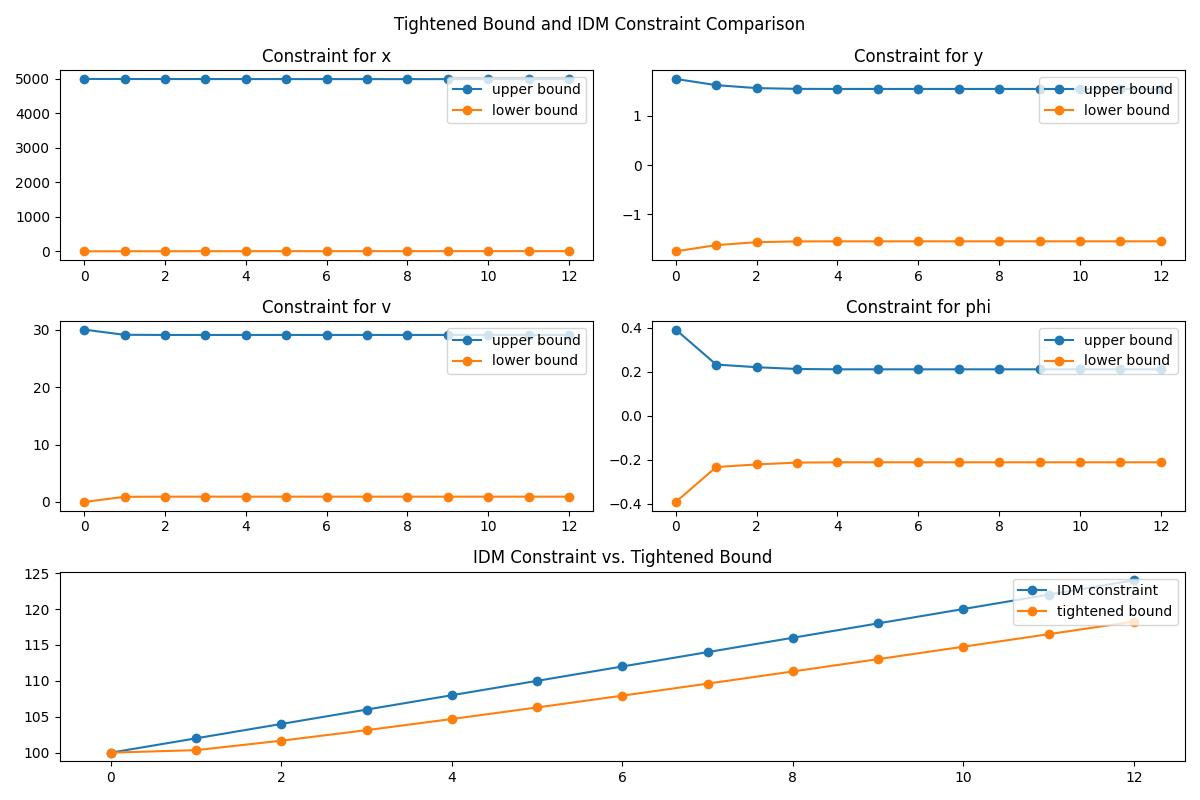
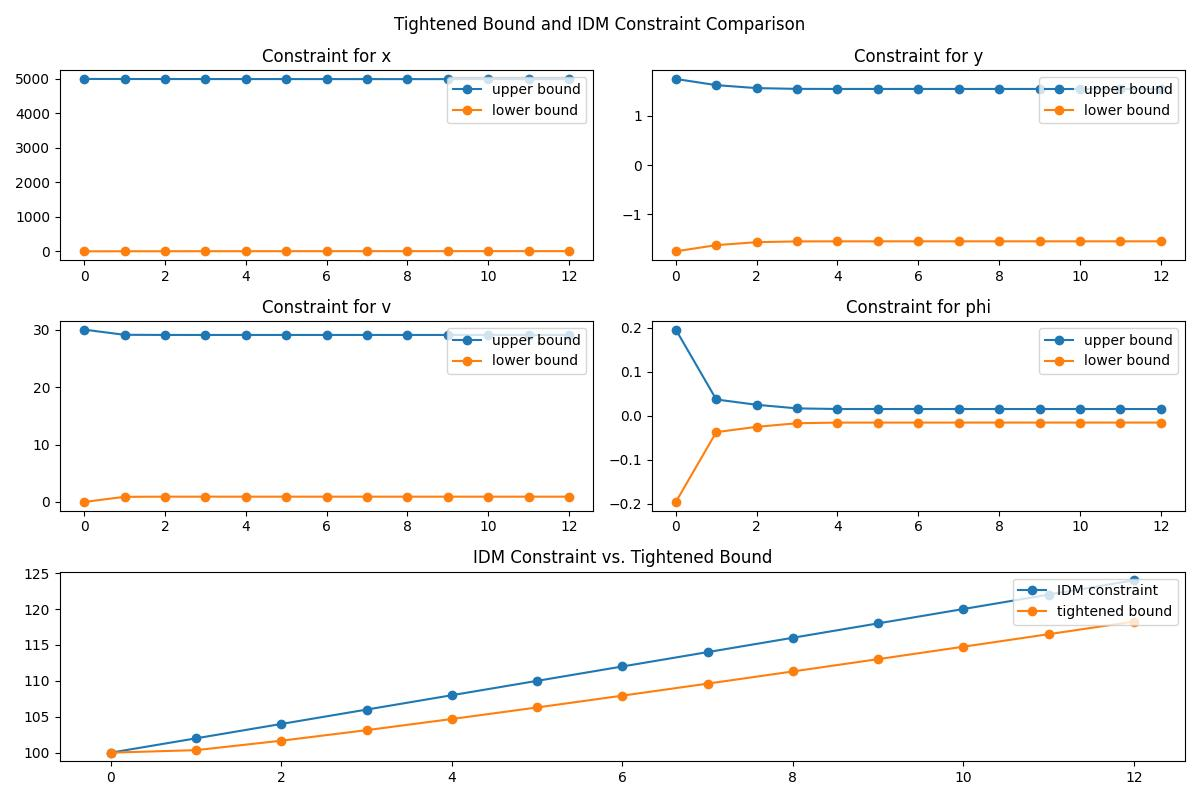
add to do list

Changed region(s): [[0.555, 0.4062, 0.9867, 0.625]]

diff --git a/Test_func/test_mpc_bound.py b/Test_func/test_mpc_bound.py
@@ -51,10 +51,10 @@ Possibilty=0.95  # the possibility of the tightened bound
 # initial upper bound of the constraints
 # Here is the upper bound of the constraints
 H_up=[np.array([[1],[0],[0],[0]]),np.array([[0],[1],[0],[0]]), np.array([[0],[0],[1],[0]]), np.array([[0],[0],[0],[1]])]
-upb=np.array([[5000],[1.75],[30],[3.14/8]])  #no limit to the x, y should be in [-1.75, 1.75], v should be in [0,30], psi should be in [-3.14/8,3.14/8]
+upb=np.array([[5000],[1.75],[30],[3.14/16]])  #no limit to the x, y should be in [-1.75, 1.75], v should be in [0,30], psi should be in [-3.14/8,3.14/8]
 # Here is the lower bound of the constraints
 H_low=[np.array([[-1],[0],[0],[0]]),np.array([[0],[-1],[0],[0]]), np.array([[0],[0],[-1],[0]]), np.array([[0],[0],[0],[-1]])]
-lwb=np.array([[0],[1.75],[0],[3.14/8]])  #no limit to the x, y should be in [-1.75, 1.75], v should be in [0,30], psi should be in [-3.14/8,3.14/8]
+lwb=np.array([[0],[1.75],[0],[3.14/16]])  #no limit to the x, y should be in [-1.75, 1.75], v should be in [0,30], psi should be in [-3.14/8,3.14/8]
 # Predict Horizon 
 N=12
 #calculate the Nth tightened bound

diff --git a/Mid_Term_Test/Controllers.py b/Mid_Term_Test/Controllers.py
@@ -46,6 +46,9 @@ class makeController:
             self.vehicle.integrator(opts["integrator"],dt)
             self.F_x  = self.vehicle.getIntegrator()
         else:
+            
+            # self.vehicle.integrator("rk",dt)
+            # self.F_x  = self.vehicle.getIntegrator()
             # ! set the LTI model from the vehicle model
             self.A, self.B, self.C = self.vehicle.vehicle_linear_discrete_model(v=15, phi=0, delta=0)
         # ! get the cost param from the vehicle model
@@ -94,6 +97,7 @@ class makeController:
         for i in range(self.N):
             A_d, B_d, G_d = self.A, self.B, self.C
             self.opti.subject_to(self.x[:, i+1] == A_d @ self.x[:, i] + B_d @ self.u[:, i] + G_d)
+            # self.opti.subject_to(self.x[:, i+1] == self.F_x(self.x[:,i],self.u[:,i]))
         self.opti.subject_to(self.x[:, 0] == self.x0)
 
     def setInEqConstraints_val(self, H_up=None, upb=None, H_low=None, lwb=None):

diff --git a/Mid_Term_Test/Traffic.py b/Mid_Term_Test/Traffic.py
@@ -92,11 +92,11 @@ class Traffic:
         vehicles = [
             ('vehicle.tesla.model3', 30,-self.laneWidth),
             ('vehicle.carlamotors.firetruck', 20 ), # ! this is ego vehicle    'vehicle.carlamotors.firetruck'
-            ('vehicle.tesla.model3', 40, self.laneWidth),
-            ('vehicle.tesla.model3', 110, -self.laneWidth),
+            ('vehicle.tesla.model3', 40, 2*self.laneWidth),
+            ('vehicle.tesla.model3', 110, -2*self.laneWidth),
             ('vehicle.tesla.model3', 150, ),
             ('vehicle.tesla.model3', 70),
-            ('vehicle.tesla.model3', 30, self.laneWidth),
+            ('vehicle.tesla.model3', 30, 2*self.laneWidth),
             ('vehicle.tesla.model3', 110, self.laneWidth)
         ]
         center_line = 143.318146

diff --git a/Mid_Term_Test/test_complex_env_makeController.py b/Mid_Term_Test/test_complex_env_makeController.py
@@ -21,14 +21,14 @@ from agents.navigation.controller import VehiclePIDController
 #     r'python config.py --map Town06')
 # subprocess.run(command, shell=True)
 # exit()
-# # Run the command
+# Run the command
 
 ## ! --------------------------------------System initialization--------------------------------------------
 dt = 0.3                   # Simulation time step (Impacts traffic model accuracy)
 desired_interval = dt
 dt_PID = dt/5              # Time step for the PID controller
 f_controller = 1            # Controller update frequency, i.e updates at each t = dt*f_controller
-N =  12         # MPC Horizon length
+N =  12        # MPC Horizon length
 laneWidth = 3.5
 
 ref_vx = 54/3.6             # Higway speed limit in (m/s)

diff --git a/README.md b/README.md
@@ -96,9 +96,12 @@ Here is the decision master result:
 <p float="left">
   <img src="Figure/CARLA_simulation_Make_Controller_TEST.png" width="85%" /> 
 </p>   
-## 2024/03/19 QunZhang
+## 2024/03/20 QunZhang
 TODO List: 
 ```
 1. tunning the controller
-3. decision master
+2. decision master
+3. add uncertainty plot,  plot constraints every time
+4. add noise into measurement and tighten the lane change change constraint
+5. plot constraint, and broadcast of the uncertainty
 ```
